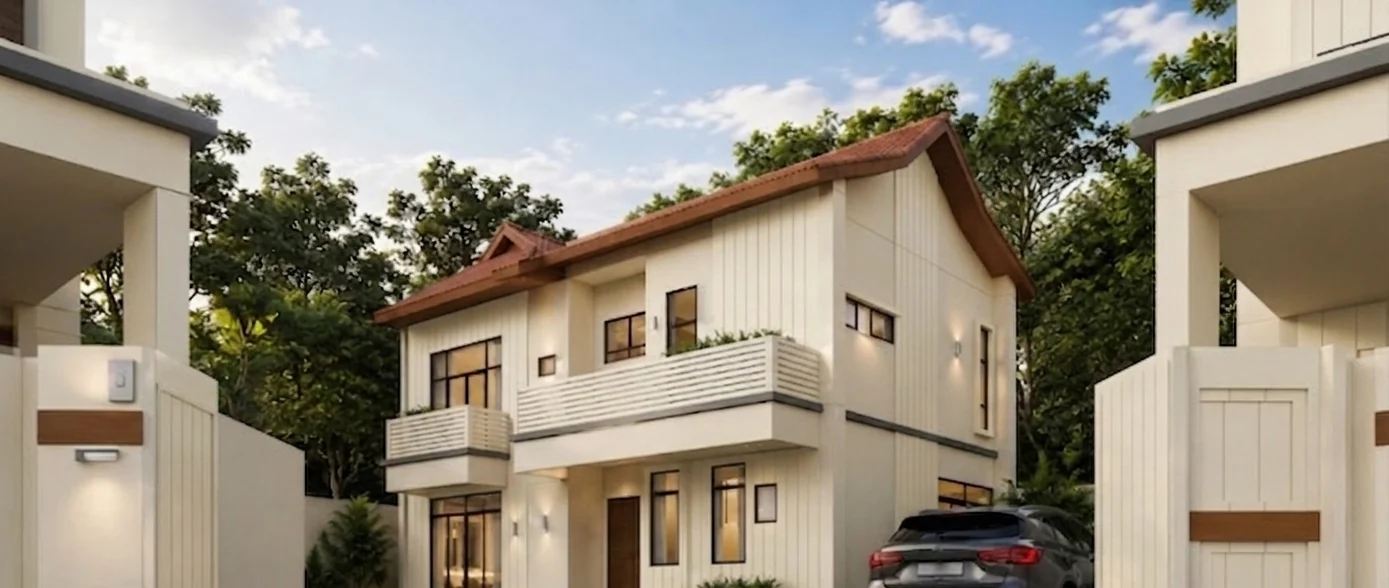
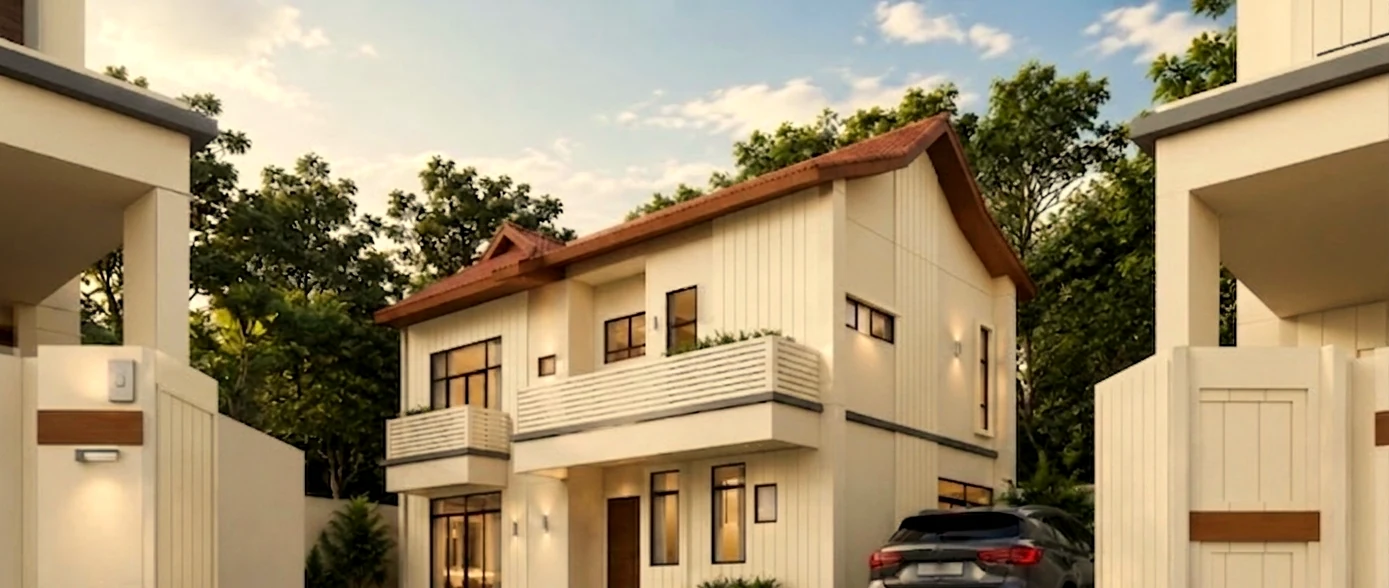
Hero slideshow: warm-grade the two eye-level renders to golden hour
Re-process hero-2/hero-3 from the source PNGs: same clean top-crop that
drops the Gemini watermark, plus a warm white-balance + golden highlight
glow so the eye-level shots match the dusk aerial's colour temperature.
The slideshow now reads as one continuous golden-hour flythrough instead
of jumping from golden aerial to flat daylight.

Changed region(s): [[0.743, 0.3367, 0.7739, 0.3673], [0.0619, 0.0918, 0.0929, 0.1224]]

diff --git a/index.html b/index.html
@@ -304,8 +304,8 @@
 <section class="hero hero--cinematic" data-screen-label="01 Hero">
   <figure class="hero-bg">
     <img class="hero-slide" src="assets/hero-aerial-dusk.webp?v=2" alt="Aerial view of Panthera Bertam at golden hour, homes around the shared central green, artist's impression" fetchpriority="high">
-    <img class="hero-slide" src="assets/hero-2.webp?v=1" alt="A Panthera Bertam home, front elevation and driveway, artist's impression" loading="lazy">
-    <img class="hero-slide" src="assets/hero-3.webp?v=1" alt="A Panthera Bertam home facade, artist's impression" loading="lazy">
+    <img class="hero-slide" src="assets/hero-2.webp?v=2" alt="A Panthera Bertam home, front elevation and driveway, artist's impression" loading="lazy">
+    <img class="hero-slide" src="assets/hero-3.webp?v=2" alt="A Panthera Bertam home facade, artist's impression" loading="lazy">
   </figure>
   <div class="hero-scrim" aria-hidden="true"></div>
   <span class="hero-cap mono" data-i18n="site.aerial.l">Artist's impression · aerial view from north</span>